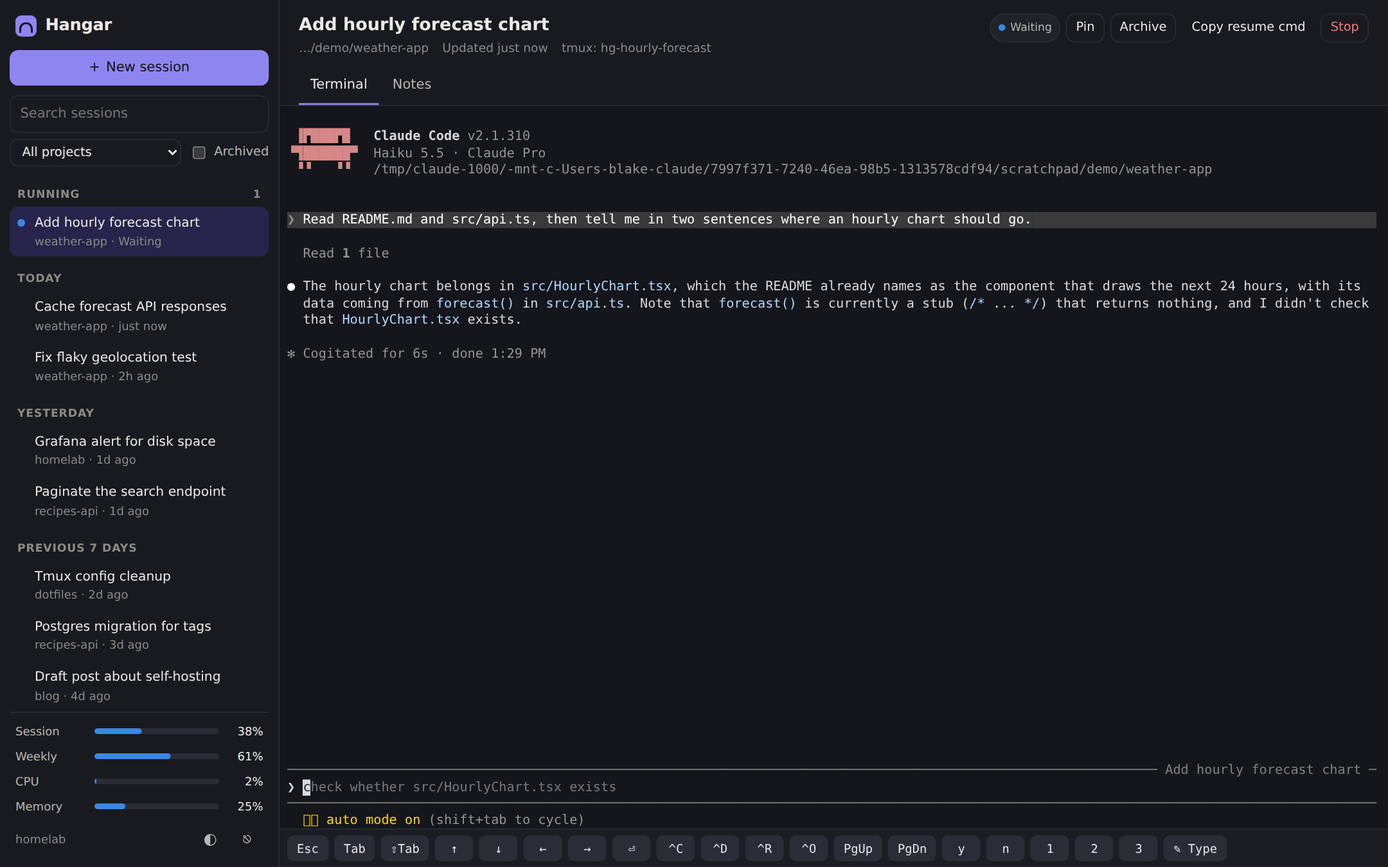
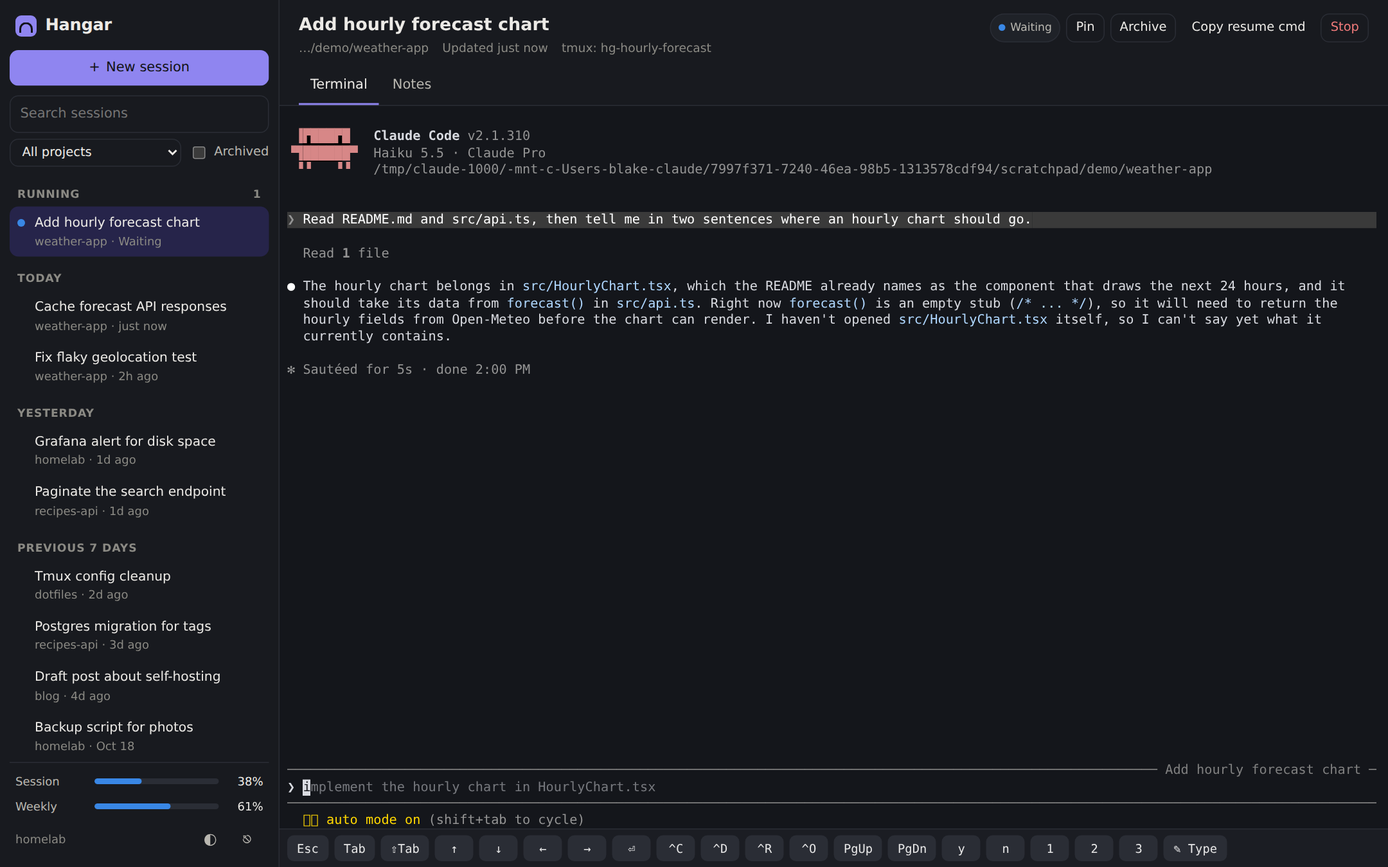
Let Claude install packages in the container; drop computer stats
- Container user gets sudo; a Claude Code ask rule (Bash(sudo:*)) prompts
  before every sudo command, even in auto mode
- Sessions get a short system-prompt note about the container
- apt-installed packages are recorded in /data and reinstalled when the
  container is recreated
- Remove the computer stats (they only showed the Docker VM); add a
  today-by-hour token chart
- Record open sessions right away and every 15s so restore works with
  no browser open

diff --git a/hangar/static/app.js b/hangar/static/app.js
@@ -52,14 +52,6 @@ const fmt = {
     if (n >= 1e3) return (n / 1e3).toFixed(n >= 1e4 ? 0 : 1) + "k";
     return String(Math.round(n));
   },
-  bytes(n) {
-    if (n == null) return "–";
-    const u = ["B", "KB", "MB", "GB", "TB"];
-    let i = 0;
-    while (n >= 1024 && i < u.length - 1) { n /= 1024; i++; }
-    return (n >= 100 || i === 0 ? n.toFixed(0) : n.toFixed(1)) + " " + u[i];
-  },
-  rate(n) { return n == null ? "–" : fmt.bytes(n) + "/s"; },
   pct(n) { return n == null ? "–" : Math.round(n) + "%"; },
   ago(ts) {
     if (!ts) return "";
@@ -87,11 +79,6 @@ const fmt = {
     const sameDay = d.toDateString() === new Date().toDateString();
     return sameDay ? d.toLocaleTimeString(undefined, { hour: "numeric", minute: "2-digit" })
       : d.toLocaleString(undefined, { weekday: "short", hour: "numeric", minute: "2-digit" });
-  },
-  duration(s) {
-    if (!s) return "–";
-    const d = Math.floor(s / 86400), h = Math.floor((s % 86400) / 3600), m = Math.floor((s % 3600) / 60);
-    return d ? `${d}d ${h}h` : h ? `${h}h ${m}m` : `${m}m`;
   },
   money(n) { return n == null ? "" : "$" + n.toFixed(n >= 100 ? 0 : 2); },
 };
@@ -136,7 +123,7 @@ function startPolling() {
     tick();
   };
   loopFn("sessions", loadSessions, 4000);
-  loopFn("overview", loadOverview, 3000);
+  loopFn("overview", loadOverview, 15000);
 }
 function stopPolling() { for (const k in timers) clearTimeout(timers[k]); }
 document.addEventListener("visibilitychange", () => { if (!document.hidden && state.me) { loadSessions(); loadOverview(); } });
@@ -220,7 +207,6 @@ function renderSideFoot() {
   if (!o) return;
   const u = o.usage?.limits || [];
   const pick = ["five_hour", "seven_day"].map((k) => u.find((l) => l.key === k)).filter(Boolean);
-  const sys = o.system?.now || {};
   const meter = (label, p, title) => {
     const lv = level(p ?? 0);
     return `<div class="mini-meter" title="${esc(title || "")}"><span>${esc(label)}</span>
@@ -230,9 +216,7 @@ function renderSideFoot() {
   $("#side-foot").innerHTML = `
     ${pick.map((l) => meter(l.key === "five_hour" ? "Session" : "Weekly", l.utilization, `${l.label}: resets in ${fmt.until(l.resets_at)}`)).join("")}
     ${o.error && !pick.length ? `<div class="dim" title="${esc(o.error)}">Usage unavailable</div>` : ""}
-    ${meter("CPU", sys.cpu)}
-    ${meter("Memory", sys.mem_pct, `${fmt.bytes(sys.mem_used)} of ${fmt.bytes(sys.mem_total)}`)}
-    <div class="foot-row"><span title="Host">${esc(sys.hostname || state.me?.hostname || "")}</span>
+    <div class="foot-row"><span title="Host">${esc(state.me?.hostname || "")}</span>
       <span><button class="icon-btn" data-act="theme" title="Theme: ${theme}" aria-label="Change theme">${theme === "dark" ? "☾" : theme === "light" ? "☀" : "◐"}</button>
       <button class="icon-btn" data-act="logout" title="Sign out" aria-label="Sign out">⎋</button></span></div>`;
 }
@@ -329,44 +313,12 @@ function barChart(values, { labels, tips, height = 120, highlightLast = false, t
   return `<svg class="chart" viewBox="0 0 ${W} ${H}" preserveAspectRatio="none" style="height:${H}px" role="img">${g}</svg>`;
 }
 
-/* Sparkline: one series, 2px line, crosshair + tooltip on hover. */
-function sparkline(points, key, { fmtV = fmt.pct, max = null, height = 46 } = {}) {
-  const vals = points.map((p) => p[key]);
-  const W = 300, H = height;
-  const real = vals.filter((v) => v != null);
-  if (real.length < 2) return `<svg class="chart" viewBox="0 0 ${W} ${H}" style="height:${H}px"></svg>`;
-  const top = max ?? Math.max(1, ...real) * 1.1;
-  const n = vals.length;
-  const xy = vals.map((v, i) => [(i / (n - 1)) * W, H - 2 - ((v ?? 0) / top) * (H - 4)]);
-  const line = xy.map(([x, y], i) => `${i ? "L" : "M"}${x.toFixed(1)},${y.toFixed(1)}`).join("");
-  const area = `${line} L${W},${H} L0,${H} Z`;
-  const data = esc(JSON.stringify(points.map((p) => [p.t, p[key]])));
-  return `<svg class="chart spark" viewBox="0 0 ${W} ${H}" preserveAspectRatio="none" style="height:${H}px"
-    data-spark="${data}" data-max="${top}" data-fmt="${fmtV === fmt.rate ? "rate" : "pct"}">
-    <path class="area" d="${area}"/><path class="line" d="${line}" vector-effect="non-scaling-stroke"/>
-    <line class="cross" x1="0" x2="0" y1="0" y2="${H}" visibility="hidden" vector-effect="non-scaling-stroke"/></svg>`;
-}
-
 document.addEventListener("pointermove", (e) => {
   const hit = e.target.closest?.("[data-tip]");
   if (hit) { showTip(hit.dataset.tip, e.clientX, e.clientY); return; }
-  const spark = e.target.closest?.("[data-spark]");
-  if (spark) {
-    const pts = JSON.parse(spark.dataset.spark);
-    const r = spark.getBoundingClientRect();
-    const i = Math.max(0, Math.min(pts.length - 1, Math.round(((e.clientX - r.left) / r.width) * (pts.length - 1))));
-    const cross = spark.querySelector(".cross");
-    const x = (i / (pts.length - 1)) * 300;
-    cross.setAttribute("x1", x); cross.setAttribute("x2", x); cross.setAttribute("visibility", "visible");
-    const [t, v] = pts[i];
-    const f = spark.dataset.fmt === "rate" ? fmt.rate : fmt.pct;
-    showTip(`<b>${esc(f(v))}</b><br>${new Date(t * 1000).toLocaleTimeString()}`, e.clientX, e.clientY);
-    return;
-  }
   hideTip();
-  document.querySelectorAll(".spark .cross[visibility=visible]").forEach((c) => c.setAttribute("visibility", "hidden"));
 });
-document.addEventListener("pointerdown", (e) => { if (!e.target.closest?.("[data-tip],[data-spark]")) hideTip(); });
+document.addEventListener("pointerdown", (e) => { if (!e.target.closest?.("[data-tip]")) hideTip(); });
 
 /* ---------------- router ---------------- */
 
@@ -452,42 +404,18 @@ function dashboardView() {
   function projectsCard(st) {
     const max = Math.max(1, ...st.projects.map((p) => p.tokens));
     const models = st.today_models.length ? `<div class="dim" style="margin:14px 0 6px">Models today</div><div class="chips">${st.today_models.map(([m, n]) => `<span class="badge">${esc(m)} · ${fmt.tokens(n)}</span>`).join("")}</div>` : "";
-    return `<div class="card span-4"><h2>Projects, last 14 days</h2>
+    return `<div class="card span-5"><h2>Projects, last 14 days</h2>
       <div class="list">${st.projects.map((p) => `<div class="list-row"><span class="name">${esc(p.name)}</span><span class="num">${fmt.tokens(p.tokens)}</span>
         <div class="hbar"><i style="width:${(p.tokens / max) * 100}%"></i></div></div>`).join("") || `<span class="dim">No activity yet.</span>`}</div>${models}</div>`;
   }
 
-  function systemCards(sys) {
-    const n = sys.now || {};
-    const h = sys.history || [];
-    if (!n.time) return `<div class="card"><h2>Computer</h2><p class="muted">Collecting…</p></div>`;
-    const cores = (n.per_core || []).map((c) => `<i title="${Math.round(c)}%"><b style="height:${c}%"></b></i>`).join("");
-    const gpus = (n.gpus || []).map((g) => `
-      <div class="spark-row"><div class="spark-head"><span>${esc(g.name)}</span><b>${fmt.pct(g.util)}</b></div>
-      <div class="bar"><i style="width:${g.util || 0}%"></i></div>
-      <div class="meter-sub"><span>VRAM ${fmt.bytes((g.mem_used || 0) * 1048576)} / ${fmt.bytes((g.mem_total || 0) * 1048576)}</span>
-      <span>${g.temp != null ? Math.round(g.temp) + "°C" : ""}${g.power != null ? " · " + Math.round(g.power) + " W" : ""}</span></div></div>`).join("");
-    const disks = (n.disks || []).map((d) => {
-      const lv = level(d.pct);
-      return `<div class="list-row"><span class="name" title="${esc(d.mount)}">${esc(d.mount)}</span><span class="num">${fmt.bytes(d.total - d.used)} free</span>
-      <div class="hbar"><i class="${lv.cls}" style="width:${d.pct}%;${lv.cls ? `background:var(--${lv.cls})` : ""}"></i></div></div>`;
-    }).join("");
-    const procs = (n.procs || []).map((p) => `<tr><td>${esc(p.name)}</td><td>${p.cpu.toFixed(1)}%</td><td>${fmt.bytes(p.mem)}</td></tr>`).join("");
-    const temps = (n.temps || []).map((t) => `<span class="badge">${esc(t.name)} ${Math.round(t.c)}°C</span>`).join(" ");
-    return `
-      <div class="card span-4"><h2><span>CPU</span><span class="dim">${n.cores} cores${n.load ? " · load " + n.load.map((l) => l.toFixed(2)).join(" ") : ""}</span></h2>
-        <div class="spark-row"><div class="spark-head"><span class="dim">Last ${Math.max(1, Math.round((h.length * 3) / 60))} min</span><b>${fmt.pct(n.cpu)}</b></div>${sparkline(h, "cpu", { max: 100 })}</div>
-        <div class="cores" aria-label="Per-core load">${cores}</div>
-        ${temps ? `<div class="chips" style="margin-top:10px">${temps}</div>` : ""}</div>
-      <div class="card span-4"><h2><span>Memory</span><span class="dim">${fmt.bytes(n.mem_total)}</span></h2>
-        <div class="spark-row"><div class="spark-head"><span class="dim">${fmt.bytes(n.mem_used)} used</span><b>${fmt.pct(n.mem_pct)}</b></div>${sparkline(h, "mem", { max: 100 })}</div>
-        <div class="meter-sub"><span>Swap ${fmt.bytes(n.swap_used)} / ${fmt.bytes(n.swap_total)}</span><span>Up ${fmt.duration(n.uptime)}</span></div>
-        ${gpus ? `<div style="margin-top:14px">${gpus}</div>` : ""}</div>
-      <div class="card span-4"><h2><span>Network</span><span class="dim">${esc(n.hostname)}</span></h2>
-        <div class="spark-row"><div class="spark-head"><span class="dim">Download</span><b>${fmt.rate(n.net_down)}</b></div>${sparkline(h, "down", { fmtV: fmt.rate })}</div>
-        <div class="spark-row"><div class="spark-head"><span class="dim">Upload</span><b>${fmt.rate(n.net_up)}</b></div>${sparkline(h, "up", { fmtV: fmt.rate })}</div></div>
-      <div class="card span-6"><h2>Disks</h2><div class="list">${disks || `<span class="dim">No disks found.</span>`}</div></div>
-      <div class="card span-6"><h2>Top processes</h2><table class="data"><tr><th>Process</th><th>CPU</th><th>Memory</th></tr>${procs}</table></div>`;
+  function hoursCard(st) {
+    const hours = st.today_hours;
+    const nowH = new Date().getHours();
+    const labels = hours.map((_, h) => (h % 6 === 0 ? (h === 0 ? "12a" : h === 12 ? "12p" : h < 12 ? h + "a" : h - 12 + "p") : ""));
+    const tips = hours.map((v, h) => `${h}:00–${h}:59<br><b>${fmt.tokens(v)}</b> input + output`);
+    return `<div class="card span-7"><h2><span>Today by hour</span><span class="dim">input + output tokens</span></h2>
+      ${barChart(hours.map((v, h) => (h > nowH ? 0 : v)), { labels, tips, height: 150 })}</div>`;
   }
 
   function statusLine(o) {
@@ -520,7 +448,7 @@ function dashboardView() {
         ${o ? usageCard(o) : `<div class="card span-5"><h2>Claude usage</h2><p class="muted">Loading…</p></div>`}
         ${o ? activityCard(o.stats) : ""}
         ${o ? projectsCard(o.stats) : ""}
-        ${o ? systemCards(o.system) : ""}
+        ${o ? hoursCard(o.stats) : ""}
       </div>`;
     $("#usage-refresh")?.addEventListener("click", async () => { await api("/api/usage/refresh", { method: "POST" }); toast("Refreshing usage…"); });
   }

diff --git a/hangar/static/app.css b/hangar/static/app.css
@@ -213,23 +213,13 @@ input:focus-visible, select:focus-visible, textarea:focus-visible, .btn:focus-vi
 .chart .axis { fill: var(--text-3); font-size: 10.5px; font-family: var(--sans); }
 .chart .mark { fill: var(--series-1); }
 .chart .mark.dim { opacity: .45; }
-.chart .line { fill: none; stroke: var(--series-1); stroke-width: 2; stroke-linejoin: round; stroke-linecap: round; }
-.chart .area { fill: var(--series-1); opacity: .12; }
 .chart .hit { fill: transparent; }
-.chart .cross { stroke: var(--text-3); stroke-width: 1; stroke-dasharray: 3 3; }
-.chart .marker { fill: var(--series-1); stroke: var(--surface); stroke-width: 2; }
-.spark-row { display: grid; grid-template-columns: 1fr; gap: 2px; margin-bottom: 12px; }
-.spark-head { display: flex; justify-content: space-between; align-items: baseline; }
-.spark-head b { font-size: 18px; font-variant-numeric: tabular-nums; }
 .list { display: grid; gap: 7px; }
 .list-row { display: grid; grid-template-columns: 1fr auto; gap: 10px; align-items: center; font-size: 13px; }
 .list-row .name { overflow: hidden; text-overflow: ellipsis; white-space: nowrap; }
 .list-row .num { font-variant-numeric: tabular-nums; color: var(--text-2); }
 .hbar { grid-column: 1 / -1; height: 4px; border-radius: 99px; background: var(--surface-3); overflow: hidden; margin-top: -3px; }
 .hbar i { display: block; height: 100%; background: var(--series-1); border-radius: 99px; }
-.cores { display: grid; grid-template-columns: repeat(auto-fill, minmax(14px, 1fr)); gap: 3px; margin-top: 8px; }
-.cores i { height: 22px; border-radius: 3px; background: var(--surface-3); position: relative; overflow: hidden; }
-.cores i b { position: absolute; left: 0; right: 0; bottom: 0; background: var(--series-1); }
 .run-grid { display: grid; grid-template-columns: repeat(auto-fill, minmax(300px, 1fr)); gap: 12px; }
 .run-card {
   border: 1px solid var(--border); border-radius: 10px; overflow: hidden; text-decoration: none; display: flex;

diff --git a/hangar/app.py b/hangar/app.py
@@ -16,7 +16,6 @@ from . import __version__, auth, tmux
 from .config import settings
 from .sessions import index, transcript
 from .store import all_meta, set_meta
-from .system import monitor
 from .usage import poller
 
 STATIC = Path(__file__).with_name("static")
@@ -26,16 +25,27 @@ PUBLIC_API = {"/api/login", "/api/me"}
 @asynccontextmanager
 async def lifespan(app: FastAPI):
     poller.start()
-    monitor.start()
     await asyncio.to_thread(index.refresh, 0)
     await asyncio.to_thread(tmux.snapshot_for_restore)
     if settings.autorestore:
         started = await asyncio.to_thread(tmux.restore, _resumable)
         if started:
             print(f"Restored {len(started)} session(s)", flush=True)
+    tracker = asyncio.create_task(_track_open_sessions())  # keep a reference so it is not garbage-collected
     print(f"Hangar {__version__} on http://{settings.host}:{settings.port}  (password: {auth.password_source()})",
           flush=True)
     yield
+    tracker.cancel()
+
+
+async def _track_open_sessions() -> None:
+    """Keep the list of open sessions current even when no browser is polling, so restore works."""
+    while True:
+        await asyncio.sleep(15)
+        try:
+            await asyncio.to_thread(tmux.list_sessions)
+        except Exception:
+            pass
 
 
 def _resumable(claude_id: str) -> bool:
@@ -102,7 +112,7 @@ async def logout():
 async def me(request: Request):
     if not _authed(request):
         return JSONResponse({"authed": False}, status_code=401)
-    return {"authed": True, "version": __version__, "hostname": monitor.hostname, "workspaces": settings.workspaces,
+    return {"authed": True, "version": __version__, "hostname": settings.hostname, "workspaces": settings.workspaces,
             "claude_dir": str(settings.claude_dir), "tmux_socket": settings.tmux_socket or None}
 
 
@@ -302,12 +312,7 @@ async def dirs(path: str = ""):
 
 @app.get("/api/overview")
 async def overview():
-    return {**poller.snapshot(), "system": monitor.snapshot(), "stats": await asyncio.to_thread(index.stats)}
-
-
-@app.get("/api/system")
-async def system():
-    return monitor.snapshot()
+    return {**poller.snapshot(), "stats": await asyncio.to_thread(index.stats)}
 
 
 @app.post("/api/usage/refresh")

diff --git a/hangar/config.py b/hangar/config.py
@@ -2,6 +2,7 @@
 from __future__ import annotations
 
 import os
+import socket
 from dataclasses import dataclass, field
 from pathlib import Path
 
@@ -19,6 +20,7 @@ def _bool(value: str | None, default: bool = False) -> bool:
 @dataclass
 class Settings:
     host: str = "0.0.0.0"
+    hostname: str = ""             # name shown in the UI
     port: int = 7878
     data_dir: Path = Path.home() / ".local" / "share" / "hangar"
     claude_dir: Path = Path.home() / ".claude"
@@ -28,6 +30,7 @@ class Settings:
     tmux_socket: str = ""             # empty = tmux's default socket
     claude_cmd: str = "claude"
     claude_args: str = ""             # extra arguments for every new or resumed session
+    claude_base_args: str = ""        # set by the Docker image (permission rules, container notes)
     autorestore: bool = False         # reopen sessions that were running when Hangar last stopped
     usage_poll_minutes: float = 5
     secure_cookies: bool = False      # set when served over HTTPS only
@@ -37,6 +40,7 @@ class Settings:
         e = os.environ
         s = cls()
         s.host = e.get("HANGAR_HOST", s.host)
+        s.hostname = e.get("HANGAR_HOSTNAME") or socket.gethostname()
         s.port = int(e.get("HANGAR_PORT", s.port))
         s.data_dir = Path(e.get("HANGAR_DATA_DIR") or s.data_dir).expanduser()
         s.claude_dir = Path(e.get("CLAUDE_CONFIG_DIR") or s.claude_dir).expanduser()
@@ -45,6 +49,7 @@ class Settings:
         s.tmux_socket = e.get("HANGAR_TMUX_SOCKET", "")
         s.claude_cmd = e.get("HANGAR_CLAUDE_CMD", s.claude_cmd)
         s.claude_args = e.get("HANGAR_CLAUDE_ARGS", "")
+        s.claude_base_args = e.get("HANGAR_CLAUDE_BASE_ARGS", "")
         s.autorestore = _bool(e.get("HANGAR_AUTORESTORE"))
         s.usage_poll_minutes = max(1.0, float(e.get("HANGAR_USAGE_POLL_MINUTES", s.usage_poll_minutes)))
         s.secure_cookies = _bool(e.get("HANGAR_SECURE_COOKIES"))

diff --git a/hangar/tmux.py b/hangar/tmux.py
@@ -141,7 +141,7 @@ def dismiss_restore() -> None:
 
 def claude_command(extra: list[str]) -> str:
     """Shell command that runs Claude and then leaves a shell behind, so the session stays usable."""
-    args = shlex.split(settings.claude_args) + extra
+    args = shlex.split(settings.claude_base_args) + shlex.split(settings.claude_args) + extra
     claude = " ".join([shlex.quote(settings.claude_cmd)] + [shlex.quote(a) for a in args])
     note = "Claude exited. This is a shell in the same folder. Type exit to close the session."
     return f"{claude}; printf '\\n\\033[2m%s\\033[0m\\n' {shlex.quote(note)}; exec \"${{SHELL:-/bin/bash}}\" -l"
@@ -179,6 +179,7 @@ def new_session(cwd: str, *, label: str = "", resume: str | None = None, fork: b
     run("set-option", "-t", target, "@hangar_label", label or Path(cwd).name, check=False)
     # Hangar draws its own header, so hide tmux's status bar in sessions it owns.
     run("set-option", "-t", target, "status", "off", check=False)
+    list_sessions(with_live=False)  # record it as open right away, for restore after a restart
     return {"name": name, "claude_id": claude_id or None}
 
 

diff --git a/README.md b/README.md
@@ -4,7 +4,7 @@
 
 Hangar is a self-hosted web UI for [Claude Code](https://docs.claude.com/en/docs/claude-code/overview). Every session runs inside tmux, so it keeps going when you close the browser. You can open it again from your laptop, phone, or tablet, over your home network or Tailscale. The layout follows Open WebUI: your sessions are in a sidebar, grouped by date and titled automatically. Each one has a full terminal and a readable transcript.
 
-It also has a dashboard with your Claude plan usage and stats for the machine.
+It also has a dashboard with your Claude plan usage and token activity.
 
 ![Dashboard](docs/dashboard.png)
 
@@ -18,8 +18,8 @@ It also has a dashboard with your Claude plan usage and stats for the machine.
 - **Works on phones.** A key bar for Esc, Shift+Tab, arrows, Ctrl+C and so on, and a compose box for long messages. You can also add it to your home screen as an app.
 - **Live status.** See which sessions are working, which are waiting for you, and which have dropped back to a shell.
 - **Claude usage.** Your 5-hour and weekly limits (the same numbers `/usage` shows), when they reset, and a warning when you're on pace to hit 100%. Also shows Claude status page incidents.
-- **Token activity.** Daily input and output tokens from the local logs, plus the busiest projects and the models used today.
-- **Computer stats.** CPU (per core), memory, network, disks, NVIDIA GPUs, temperatures, and top processes, with short history graphs.
+- **Token activity.** Daily and hourly input and output tokens from the local logs, plus the busiest projects and the models used today.
+- **Claude can install what it needs.** In Docker, Claude can `sudo apt-get install` missing tools. You get a permission prompt for every sudo command, even in auto mode, and installed packages come back after the container is recreated.
 - **Pins, archive, renames, and private notes** for each session.
 
 | Session terminal | Transcript | Phone |
@@ -52,8 +52,6 @@ Run Hangar from your WSL distro, not PowerShell, so it shares the same `~/.claud
 2. In WSL, set `WORKSPACE` to the path WSL uses, for example `/mnt/c/Users/you/code`.
 3. Run `docker compose up -d --build` from WSL.
 
-The computer stats show the WSL virtual machine, not all of Windows.
-
 ## Reaching it from other devices
 
 **Home network:** with the default `HANGAR_BIND=0.0.0.0`, open `http://<machine-ip>:7878` from any device on the network. You may need to allow port 7878 in the host firewall.
@@ -79,7 +77,15 @@ Turn on HTTPS certificates for your tailnet first (admin console > DNS). If you 
 
 ### Tools inside the container
 
-Claude runs inside the container, so its commands can only use what's installed there. That's git, curl, ripgrep, jq, Python 3.12, and a few basics. Add more with `EXTRA_PACKAGES` in `.env`, for example `EXTRA_PACKAGES="build-essential golang nodejs npm"`, and rebuild. If you need the host's full toolchain, run Hangar without Docker (below). On native Linux, you can also try `docker-compose.host-tmux.yml`, which runs sessions in the host's tmux server.
+Claude runs inside the container, so its commands use what's installed there. The image starts with git, curl, ripgrep, jq, Python 3.12, and a few basics. There are three ways to get more:
+
+- **Let Claude install it.** Claude can run `sudo apt-get install`. Every sudo command shows a permission prompt, even in auto mode, so nothing gets installed without your OK. Hangar passes Claude a short note saying it's in a Debian container and can do this.
+- **Packages are kept.** Hangar records what's been installed with apt in `/data/apt-packages.txt` and reinstalls it in the background when the container is recreated (log: `/data/apt-restore.log`). User-level installs (`pip install --user`, `~/.local`, `~/.cargo`, `~/.nvm`) live in the home volume and are kept too. Anything else written to system folders, like `npm install -g`, is lost on recreate.
+- **Bake it into the image.** Set `EXTRA_PACKAGES` in `.env`, for example `EXTRA_PACKAGES="build-essential golang nodejs npm"`, and rebuild.
+
+To turn off sudo entirely, set `ALLOW_SUDO=false` in `.env` and rebuild. The sudo prompt is a Claude Code permission rule (`ask: Bash(sudo:*)`), so it doesn't apply in `bypassPermissions` mode.
+
+If you need the host's full toolchain instead, run Hangar without Docker (below). On native Linux, you can also try `docker-compose.host-tmux.yml`, which runs sessions in the host's tmux server.
 
 ## Running without Docker
 
@@ -104,10 +110,10 @@ Sessions then run in your own tmux server, with all your tools, and you can atta
 | `CLAUDE_CONFIG_DIR` | `~/.claude` | Claude Code's folder. |
 | `HANGAR_AUTORESTORE` | `false` (`true` in compose) | Resume the sessions that were running when Hangar last stopped. |
 | `HANGAR_CLAUDE_ARGS` | | Extra arguments for every new or resumed session. |
+| `ALLOW_SUDO` (build) | `true` | Docker only: give Claude sudo, with a permission prompt for each sudo command. |
 | `HANGAR_CLAUDE_CMD` | `claude` | Path to the Claude Code binary. |
 | `HANGAR_TMUX_SOCKET` | tmux default | Use a specific tmux server socket. |
 | `HANGAR_USAGE_POLL_MINUTES` | `5` | How often to check plan usage (minimum 1; the endpoint rate-limits). |
-| `HANGAR_DISKS` | auto | Comma-separated paths whose drives to show in the stats. |
 | `HANGAR_SECURE_COOKIES` | `false` | Mark the login cookie HTTPS-only. |
 | `HANGAR_HOSTNAME` | system hostname | Name shown in the UI. |
 
@@ -119,6 +125,7 @@ Hangar gives whoever signs in a shell on your machine, with Claude Code and your
 - Don't forward the port to the internet. Use your LAN, Tailscale, or another VPN.
 - Every API request needs the login cookie, and requests that change anything also need a custom header, which blocks cross-site requests. Terminal WebSockets check the page origin.
 - New sessions can only start inside `HANGAR_WORKSPACES`. A terminal can still `cd` anywhere the container can see, so only mount what you need.
+- In Docker, the container user has passwordless sudo inside the container (unless `ALLOW_SUDO=false`). That gives root in the container, not on the host, but root in the container can still change everything that's mounted.
 - Hangar reads Claude Code's OAuth token to check usage. It never refreshes or changes it.
 
 ## Notes and limits
@@ -126,11 +133,10 @@ Hangar gives whoever signs in a shell on your machine, with Claude Code and your
 - The usage numbers come from the same unofficial endpoint Claude Code's `/usage` uses. It rate-limits fast polling, so Hangar checks every 5 minutes and backs off on errors. It only works with a Claude subscription login, not an API key.
 - The "cost" on a session is Claude Code's API-equivalent estimate, not what a subscription charges.
 - Live status (working, waiting) comes from the files Claude Code writes in `~/.claude/sessions`, matched to processes Hangar can see.
-- GPU stats need `nvidia-smi` in the container. With Docker, add `gpus: all` to the service and install the NVIDIA Container Toolkit.
 
 ## Development
 
-The backend is FastAPI (`hangar/app.py`), with modules for tmux (`tmux.py`), session logs (`sessions.py`), usage (`usage.py`), system stats (`system.py`), and the terminal bridge (`terminal.py`). The front end is plain JavaScript with no build step (`hangar/static/`). xterm.js, marked, and DOMPurify are vendored in `hangar/static/vendor`, so the UI works offline.
+The backend is FastAPI (`hangar/app.py`), with modules for tmux (`tmux.py`), session logs (`sessions.py`), usage (`usage.py`), and the terminal bridge (`terminal.py`). The front end is plain JavaScript with no build step (`hangar/static/`). xterm.js, marked, and DOMPurify are vendored in `hangar/static/vendor`, so the UI works offline.
 
 ```bash
 HANGAR_PASSWORD=dev HANGAR_PORT=7979 python -m hangar
@@ -139,7 +145,7 @@ HANGAR_PASSWORD=dev HANGAR_PORT=7979 python -m hangar
 ## Credits
 
 - [xterm.js](https://xtermjs.org/) (MIT), [marked](https://marked.js.org/) (MIT), [DOMPurify](https://github.com/cure53/DOMPurify) (Apache-2.0 / MPL-2.0)
-- Usage and system stats are adapted from UsageMeter, a tray app by the same author.
+- The usage dashboard is adapted from UsageMeter, a tray app by the same author.
 
 Hangar is an independent project. It is not made by or affiliated with Anthropic. Claude and Claude Code are trademarks of Anthropic.
 

diff --git a/docker/container-prompt.md b/docker/container-prompt.md
@@ -1,0 +1,9 @@
+# Running inside Hangar
+
+This Claude Code session runs inside the Hangar Docker container (Debian bookworm), not directly on the user's computer.
+
+- If a task needs a tool that isn't installed, you can install it with `sudo apt-get install -y <package>` (run `sudo apt-get update` first if the package isn't found). Every sudo command shows the user a permission prompt, so say briefly what you want to install and why before running it.
+- Packages installed with apt are remembered and reinstalled automatically when the container is recreated.
+- User-level installs (`pip install --user`, `~/.local/bin`, `~/.cargo`, `~/.nvm`) are kept in the home volume.
+- Anything else written outside the home folder and the mounted workspace (for example `npm install -g` into /usr/local) is lost when the container is recreated. Prefer apt or user-level installs.
+- The workspace is mounted at the same path as on the host, so file changes there are real changes on the user's machine.
